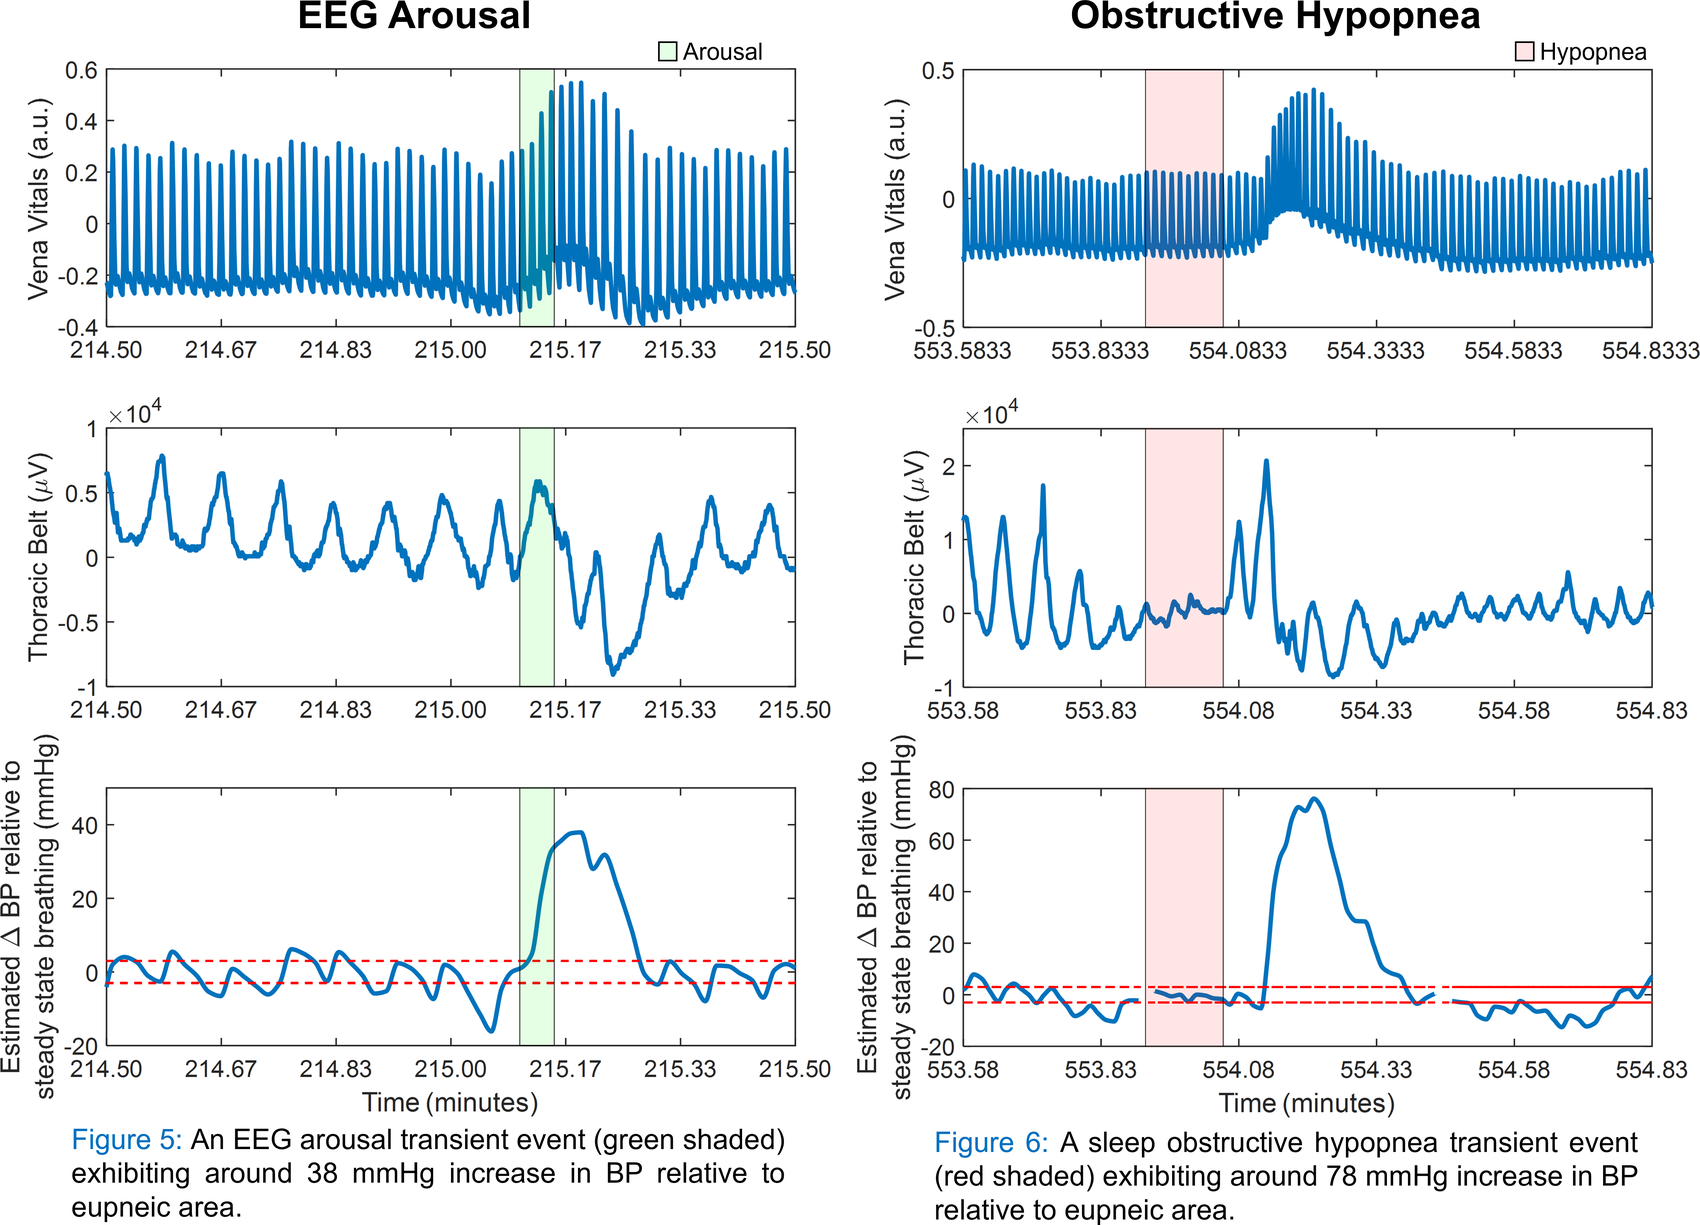
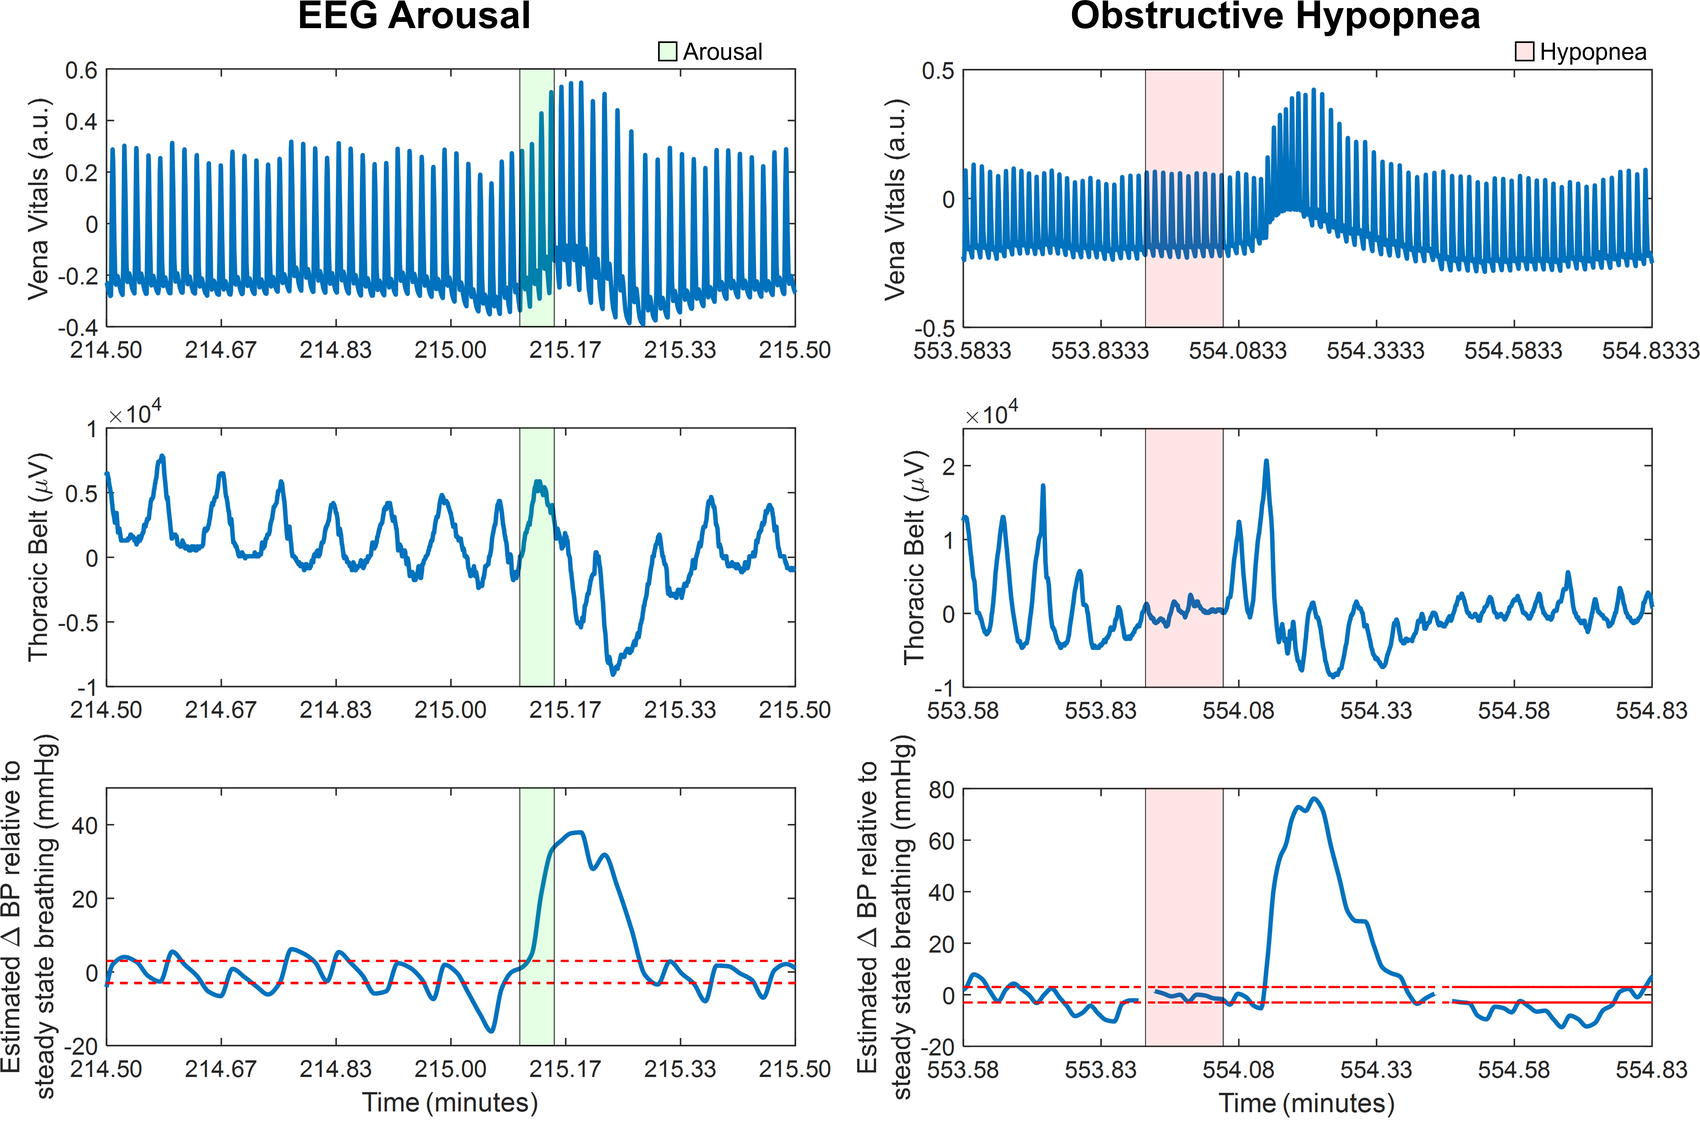
Flatten the stepped lists, merge the About statement, crop the figure
The sleep hero cards and the partner page's ways-to-work list both stepped down one at a time; they sit on one line now. Sleep cards 02 and 03 swap, so missed BP variation comes before untapped insights.

About opens on a single paragraph rather than labelled Company and Mission columns. sleep-data-2.png is cropped above its Figure 5 and 6 captions, which were journal furniture on a web page.

Changed region(s): [[0.0, 0.0, 1.0, 0.9964], [0.1871, 0.5605, 0.2182, 0.5916]]

diff --git a/src/components/vena/About.tsx b/src/components/vena/About.tsx
@@ -412,30 +412,16 @@ export function About() {
               ]}
             />
 
-            <div className="mx-auto mt-12 grid max-w-[560px] gap-10 text-left md:mt-14 md:max-w-none md:grid-cols-2 md:gap-12">
-              <div>
-                <div className="text-[11px] font-semibold uppercase tracking-[0.16em] text-[color:var(--accent)]">
-                  Company
-                </div>
-                <p className="mt-4 text-xs leading-relaxed text-[color:var(--paper)] md:text-[13px]">
-                  Vena Vitals is a data-driven digital health company focused on advancing
-                  continuous health monitoring. Our technologies are grounded in science and
-                  supported by clinical research. We believe better access to continuous monitoring
-                  can help create a more complete understanding of health and support better care
-                  for more people.
-                </p>
-              </div>
-              <div>
-                <div className="text-[11px] font-semibold uppercase tracking-[0.16em] text-[color:var(--accent)]">
-                  Mission
-                </div>
-                <p className="mt-4 text-xs leading-relaxed text-[color:var(--paper)] md:text-[13px]">
-                  To transform physiological data into actionable, personalized insights that enable
-                  early detection, proactive care, and more effective management of health
-                  conditions.
-                </p>
-              </div>
-            </div>
+            {/* One statement rather than labelled Company and Mission columns.
+                Centred under the headline at the hero's own measure. */}
+            <p className="mx-auto mt-8 max-w-[600px] text-xs leading-relaxed text-[color:var(--paper)] md:mt-10 md:text-[13px]">
+              Vena Vitals is a data-driven digital health company focused on advancing continuous
+              health monitoring. Our technologies are grounded in science and supported by clinical
+              research. We believe better access to continuous monitoring can help create a more
+              complete understanding of health and support better care for more people. Our mission
+              is to transform physiological data into actionable, personalized insights that enable
+              early detection, proactive care, and more effective management of health conditions.
+            </p>
           </div>
         </div>
       </section>

diff --git a/src/components/vena/Partner.tsx b/src/components/vena/Partner.tsx
@@ -24,7 +24,8 @@ const waysToWork = [
  *
  * The ways to work with us are set with the numerals doing the structural
  * work: each is at the site's stat size in the soft accent with the label over
- * its right shoulder, and the rows step in one at a time. No rules.
+ * its right shoulder. No rules, and no stepped indent — the rows align on one
+ * left edge so the numerals read as a column.
  *
  * Everything that used to sit on this page is parked in
  * archive/PartnerSections.tsx, including the closing CTA.
@@ -59,11 +60,7 @@ export function Partner() {
             </div>
             <ul className="mt-4 space-y-1 text-left md:mt-5 md:space-y-1.5">
               {waysToWork.map((a, i) => (
-                <li
-                  key={a}
-                  style={{ "--step": i } as React.CSSProperties}
-                  className="flex items-center pl-[calc(var(--step)*0.5rem)] md:pl-[calc(var(--step)*0.9rem)]"
-                >
+                <li key={a} className="flex items-center">
                   <span
                     aria-hidden
                     className="select-none font-display text-[26px] font-bold leading-none tracking-[-0.04em] tabular-nums text-[color:var(--accent-soft)]"

diff --git a/src/routes/solutions.sleep-medicine.tsx b/src/routes/solutions.sleep-medicine.tsx
@@ -34,12 +34,12 @@ function Page() {
             body: "Conventional ambulatory blood pressure monitors (ABPMs) can wake up patients and affect sleep quality.",
           },
           {
-            title: "Untapped insights",
-            body: "Continuous, unobtrusive monitoring during sleep can yield new information about an individual's overall health.",
-          },
-          {
             title: "Missed BP variation",
             body: "Episodic measurements can miss meaningful nighttime pressure patterns.",
+          },
+          {
+            title: "Untapped insights",
+            body: "Continuous, unobtrusive monitoring during sleep can yield new information about an individual's overall health.",
           },
         ],
         gallery: {
